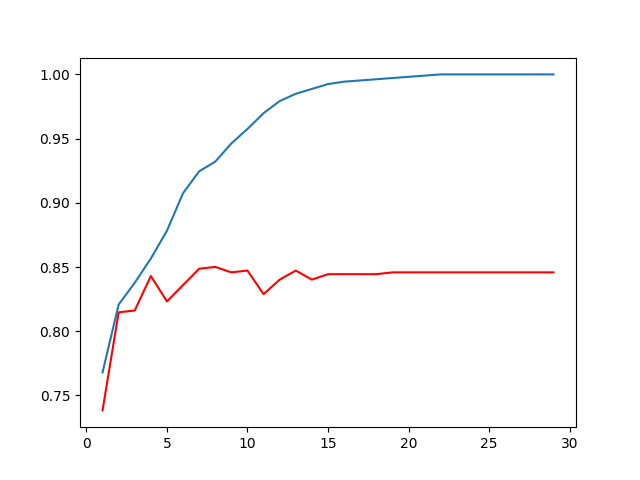
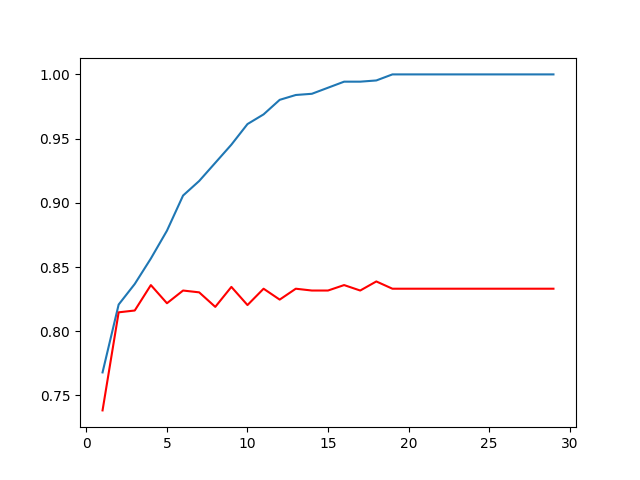
Rough Part 2

diff --git a/Assignment2/Part 2/Part2.py b/Assignment2/Part 2/Part2.py
@@ -13,11 +13,12 @@ X_train = [[0]*len(words)]
 f = open("./dataset for part 2/traindata.txt","r")
 i, j = 0, 1
 for x in f:
-	if(int(x.split('\t')[0]) != j):
+	doc = int(x.split('\t')[0])
+	if(doc != j):
 		X_train.append([0]*len(words))
 		i += 1
 	X_train[i][int(x.split('\t')[1])-1] = 1
-	j = int(x.split('\t')[0])
+	j = doc
 
 print(len(X_train))
 
@@ -36,11 +37,12 @@ X_test = [[0]*len(words)]
 f = open("./dataset for part 2/testdata.txt","r")
 i, j = 0, 1
 for x in f:
-	if(int(x.split('\t')[0]) != j):
+	doc = int(x.split('\t')[0])
+	if(doc != j):
 		X_test.append([0]*len(words))
 		i += 1
 	X_test[i][int(x.split('\t')[1])-1] = 1
-	j = int(x.split('\t')[0])
+	j = doc
 
 print(len(X_test))
 
@@ -50,3 +52,171 @@ for x in f:
 	Y_test.append(int(x))
 	
 print(len(Y_test))
+
+
+count01 = 0
+count02 = 0
+count11 = 0
+count12 = 0
+for i in range(len(X_train)):
+	if(X_train[i][484] == 0):
+		if(Y_train[i] == 1):
+			count01 += 1
+		else:
+			count02 += 1
+	elif(X_train[i][484] == 1):
+		if(Y_train[i] == 1):
+			count11 += 1
+		else:
+			count12 += 1
+
+print(count01)
+print(count02)
+print(count11)
+print(count12)
+
+
+class DecisionTree:
+	def __init__(self, criteria, depth):
+		self.criteria = criteria
+		self.depth = depth
+		self.children = []
+		self.features = []
+		self.measure = []
+		self.labels = []
+		self.n_nodes = 1
+		self.children.append(-1)
+		self.features.append(-1)
+		self.labels.append(-1)
+		self.measure.append(-1)
+
+	def compute_gini(self, X):
+		length = len(X)
+		n = [0, 0]
+		for i in X:
+			n[i-1] += 1
+		gini = 1 - sum((np.array(n)/(float(length)+np.finfo(float).eps))**2)
+		return gini
+
+	def combine_measure(self, measure, ni, n):
+		gini = np.array(measure)
+		ni = np.array(ni)
+		return np.sum((gini*ni)/n)
+
+	def compute_entropy(self, X):
+		length = len(X)
+		n = [0, 0]
+		for i in X:
+			n[i-1] += 1
+
+		prob = np.array(n)/(float(length)+np.finfo(float).eps)
+		entropy = 0
+		for i in prob:
+			entropy += i*np.log2(i) if i else 0
+
+		return entropy*(-1)
+
+	def fit(self, X, Y):
+		if(self.criteria == 'gini'):
+			flag = 1
+		elif(self.criteria == 'entropy'):
+			flag = 0
+		self.fit_DT(X, Y, 0, flag, -1, 0)
+
+
+	def fit_DT(self, X, Y, node, flag, prev_attr, level):
+		if(level > self.depth):
+			return
+
+		n_features = len(X[0])
+		node_measure = self.compute_gini(Y) if flag else self.compute_entropy(Y)
+		self.measure[node] = node_measure
+
+		if(node_measure == 0.0):
+			self.labels[node] = max(Y, key=Y.count)
+			return
+
+		measure_feature = []
+		for i in range(n_features):
+			feat = [0,1]
+			measure = []
+			ni = []
+			for l in feat:
+				Y_new = []
+				for k in range(len(X)):
+					if(X[k][i]==l):
+						Y_new.append(Y[k])
+				measure.append(self.compute_gini(Y_new) if flag else self.compute_entropy(Y_new))
+				ni.append(len(Y_new))
+			measure_feature.append(self.combine_measure(measure, ni, len(X)))
+
+		measure_feature[prev_attr] = 1 if prev_attr!=-1 else measure_feature[prev_attr]
+		attribute = measure_feature.index(min(measure_feature))
+		self.features[node] = attribute
+		self.measure[node] = node_measure-measure_feature[attribute] if (flag==0) else node_measure
+		
+		dic = {}
+		for l in np.unique(zip(*X)[attribute]):
+			self.features.append(-1)
+			self.children.append(-1)
+			self.labels.append(-1)
+			self.measure.append(-1)
+			dic[l] = self.n_nodes
+			self.n_nodes +=1
+		self.children[node] = dic
+		self.labels[node] = max(Y, key=Y.count)
+
+		for l in np.unique(zip(*X)[attribute]):
+			X_new = []
+			Y_new = []
+			for i in range(len(X)):
+				if(X[i][attribute] == l):
+					X_new.append(X[i])
+					Y_new.append(Y[i])
+
+			self.fit_DT(X_new, Y_new, self.children[node][l], flag, attribute, level+1)
+
+	def predict(self, X):
+		label = []
+		for i in X:
+			node = 0
+			while(1):
+				output = self.labels[node]
+				next_node = self.children[node][i[self.features[node]]]
+				if(self.children[next_node] == -1):
+					output = self.labels[next_node]
+					break
+				else:
+					node = next_node
+			label.append(output)
+		return label
+
+	def accuracy(self, X, Y):
+		pred = self.predict(X)
+		correct = 0
+		for i in range(len(Y)):
+			if(Y[i] == pred[i]):
+				correct += 1
+		return float(correct)/len(Y)
+
+
+acc_train = []
+acc_test = []
+for i in range(10,11):
+	print(i)
+	clf1 = DecisionTree(criteria='entropy',depth=i)
+	clf1.fit(X_train, Y_train)
+	acc = clf1.accuracy(X_test, Y_test)
+	acc_test.append(acc)
+	acc = clf1.accuracy(X_train, Y_train)
+	acc_train.append(acc)
+
+print(clf1.measure[0])
+print(clf1.features[0])
+print(clf1.accuracy(X_test, Y_test))
+
+
+# plt.figure()
+# plt.plot([i for i in range(1,30)], acc_train)
+# plt.plot([i for i in range(1,30)], acc_test, color='r')
+# plt.savefig("Plot1.png")

diff --git a/Assignment2/Part 2/Part2_sklearn.py b/Assignment2/Part 2/Part2_sklearn.py
@@ -63,14 +63,13 @@ print(len(Y_test))
 acc_train = []
 acc_test = []
 for depth in range(1,30):
-	clf1 = DecisionTreeClassifier(random_state=0, max_depth=depth).fit(X_train, Y_train)
-	label_gini = clf1.predict(X_test)
-	acc_gini = clf1.score(X_test, Y_test)
-	acc_test.append(acc_gini)
-	acc_gini = clf1.score(X_train, Y_train)
-	acc_train.append(acc_gini)
+	clf1 = DecisionTreeClassifier(criterion='entropy',random_state=0, max_depth=depth).fit(X_train, Y_train)
+	label = clf1.predict(X_test)
+	acc = clf1.score(X_test, Y_test)
+	acc_test.append(acc)
+	acc = clf1.score(X_train, Y_train)
+	acc_train.append(acc)
 
-# print("%.4f" %acc_gini)
 plt.figure()
 plt.plot([i for i in range(1,30)], acc_train)
 plt.plot([i for i in range(1,30)], acc_test, color='r')

diff --git a/Assignment2/Part 1/Part1.py b/Assignment2/Part 1/Part1.py
@@ -128,11 +128,6 @@ class DecisionTree:
 
 		return entropy*(-1)
 
-	def combine_entropy(self, entropy, ni, n):
-		entropy = np.array(entropy)
-		ni = np.array(ni)
-		return np.sum((entropy*ni)/n)
-
 	def fit(self, X, Y):
 		if(self.criteria == 'gini'):
 			flag = 1
@@ -245,7 +240,6 @@ def print_DT(children, split_attr, label, feature, node, level):
 				print("yes"),
 		a = children[node][key]
 		print_DT(children, split_attr, label, feature, a, level+1)
-
 
 
 
